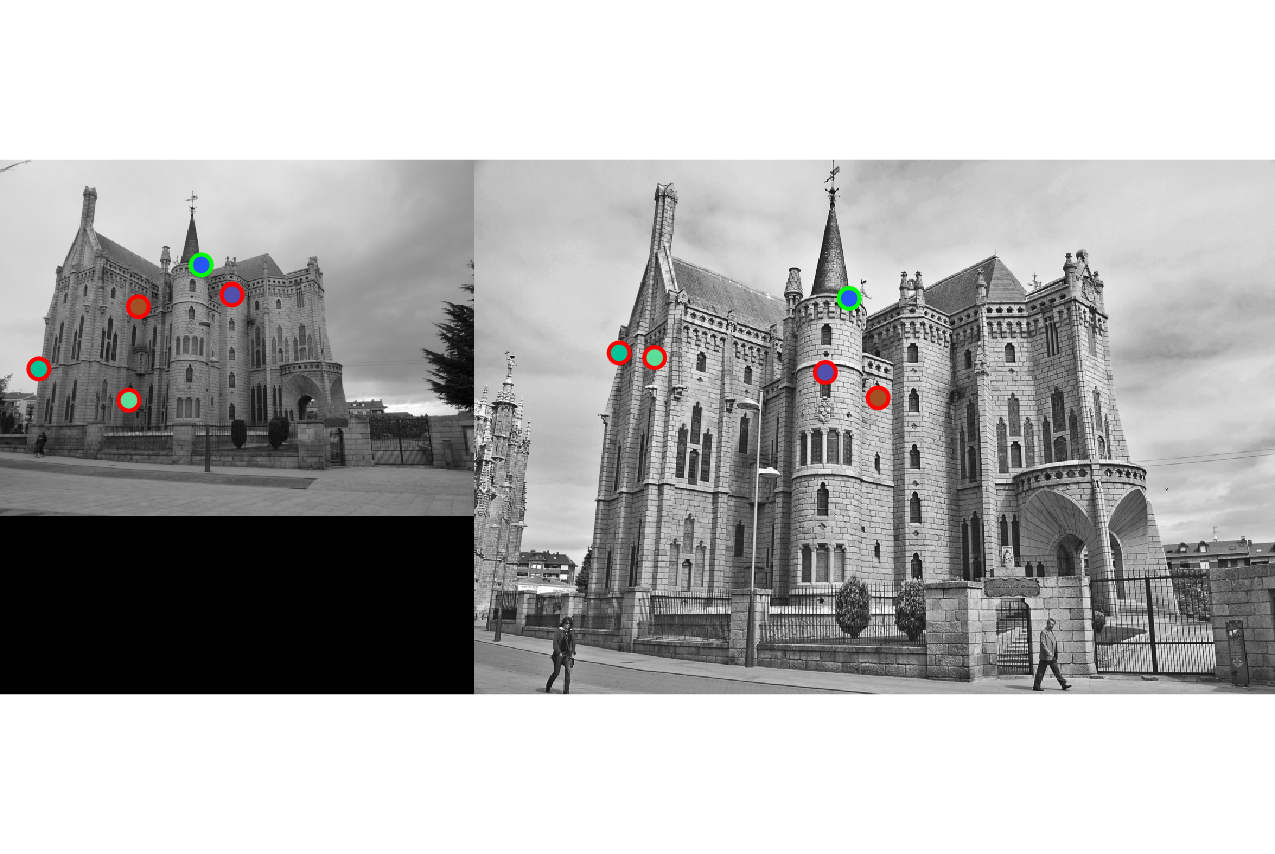
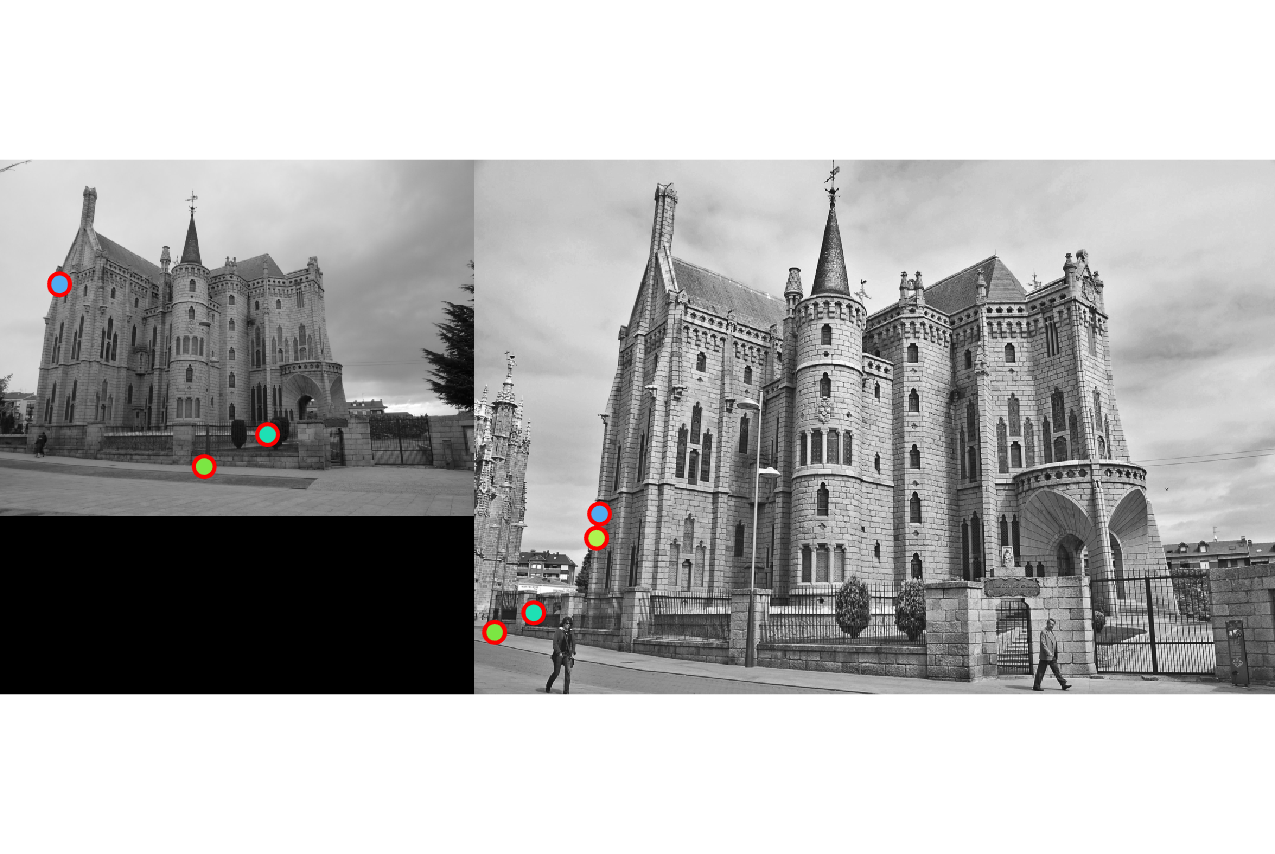
get_interest_points.m

diff --git a/hw4/code/get_descriptors.m b/hw4/code/get_descriptors.m
@@ -53,13 +53,9 @@ function [features] = get_features(image, x, y, descriptor_window_image_width)
 cell_size = descriptor_window_image_width/4;
 features = double(zeros(length(x), descriptor_window_image_width));
 theta_range = -pi:pi/4:pi;
-[M N] = size(image);
-for p = 30:length(x)
-%     G = fspecial('gaussian', [descriptor_window_image_width/2, descriptor_window_image_width/2], descriptor_window_image_width/2);
-%     g_image = imfilter(image(y(p)-8:y(p)+7, x(p)-8:x(p)+7), G);
-%     image(y(p)-8:y(p)+7, x(p)-8:x(p)+7) = g_image;
+[M, N] = size(image);
+for p = 1:length(x)
     if (x(p)-8 > 1 && y(p)-8 > 1 && x(p)+7 < N && y(p)+7 < M)
-%     q = 1;
         cell_num = 1;
         for c1 = 1:4
             for c2 = 1:4
@@ -77,12 +73,6 @@ for p = 30:length(x)
                     end
                 end
                 
-                % Potential Gaussian filter on 4x4 mag values
-                mag = reshape(mag, [4,4]);
-                mag = imfilter(mag, fspecial('gaussian', [4,4], sqrt(descriptor_window_image_width/2)));
-                mag = reshape(mag, [1,16]);
-                %%%%%%
-                
                 feat_theta = zeros(8,1);
                 for t=1:length(theta_inds)
                     theta_val = theta_inds(t);
@@ -98,7 +88,6 @@ for p = 30:length(x)
         end
     end
 end
-features = features.^(0.8);
 
 %
 % You do not need to perform the interpolation in which each gradient

diff --git a/hw4/code/match_features.m b/hw4/code/match_features.m
@@ -30,10 +30,12 @@ function [matches, confidences] = match_features(features1, features2)
 % matches(:,2) = randperm(num_features);
 % confidences = rand(num_features,1);
 
-[N K] = size(features1);
+[N1 K1] = size(features1);
+[N2 K2] = size(features2);
+N = min(N1, N2);
 matches = zeros(N, 2);
 confidences = zeros(N, 1);
-threshold = 0.9;
+threshold = 0.8;
 
 neighbors = zeros(N, N);
 for i = 1:N
@@ -64,6 +66,7 @@ confidences( ~any(confidences,2), : ) = [];
 
 [confidences, sort_index] = sort(confidences, 'descend');
 matches = matches(sort_index,:);
+end
 
 % Remember that the NNDR test will return a number close to 1 for 
 % feature points with similar distances.

diff --git a/hw4/code/projLF.m b/hw4/code/projLF.m
@@ -30,7 +30,7 @@ descriptor_window_image_width = 16;
 maxPtsEval = 100;
 
 % Whether to use the 'cheat' hand-picked interest points
-cheatInterestPoints = true;
+cheatInterestPoints = false;
 
 %%%%%%%%%%%%%%%%%%%%%%%%%%%%%%%%%%%%%%%%%%%%%%%%%%%%%%%%%%%%%%%%%%%%%%%%%%%%%
 %% Notre Dame de Paris
